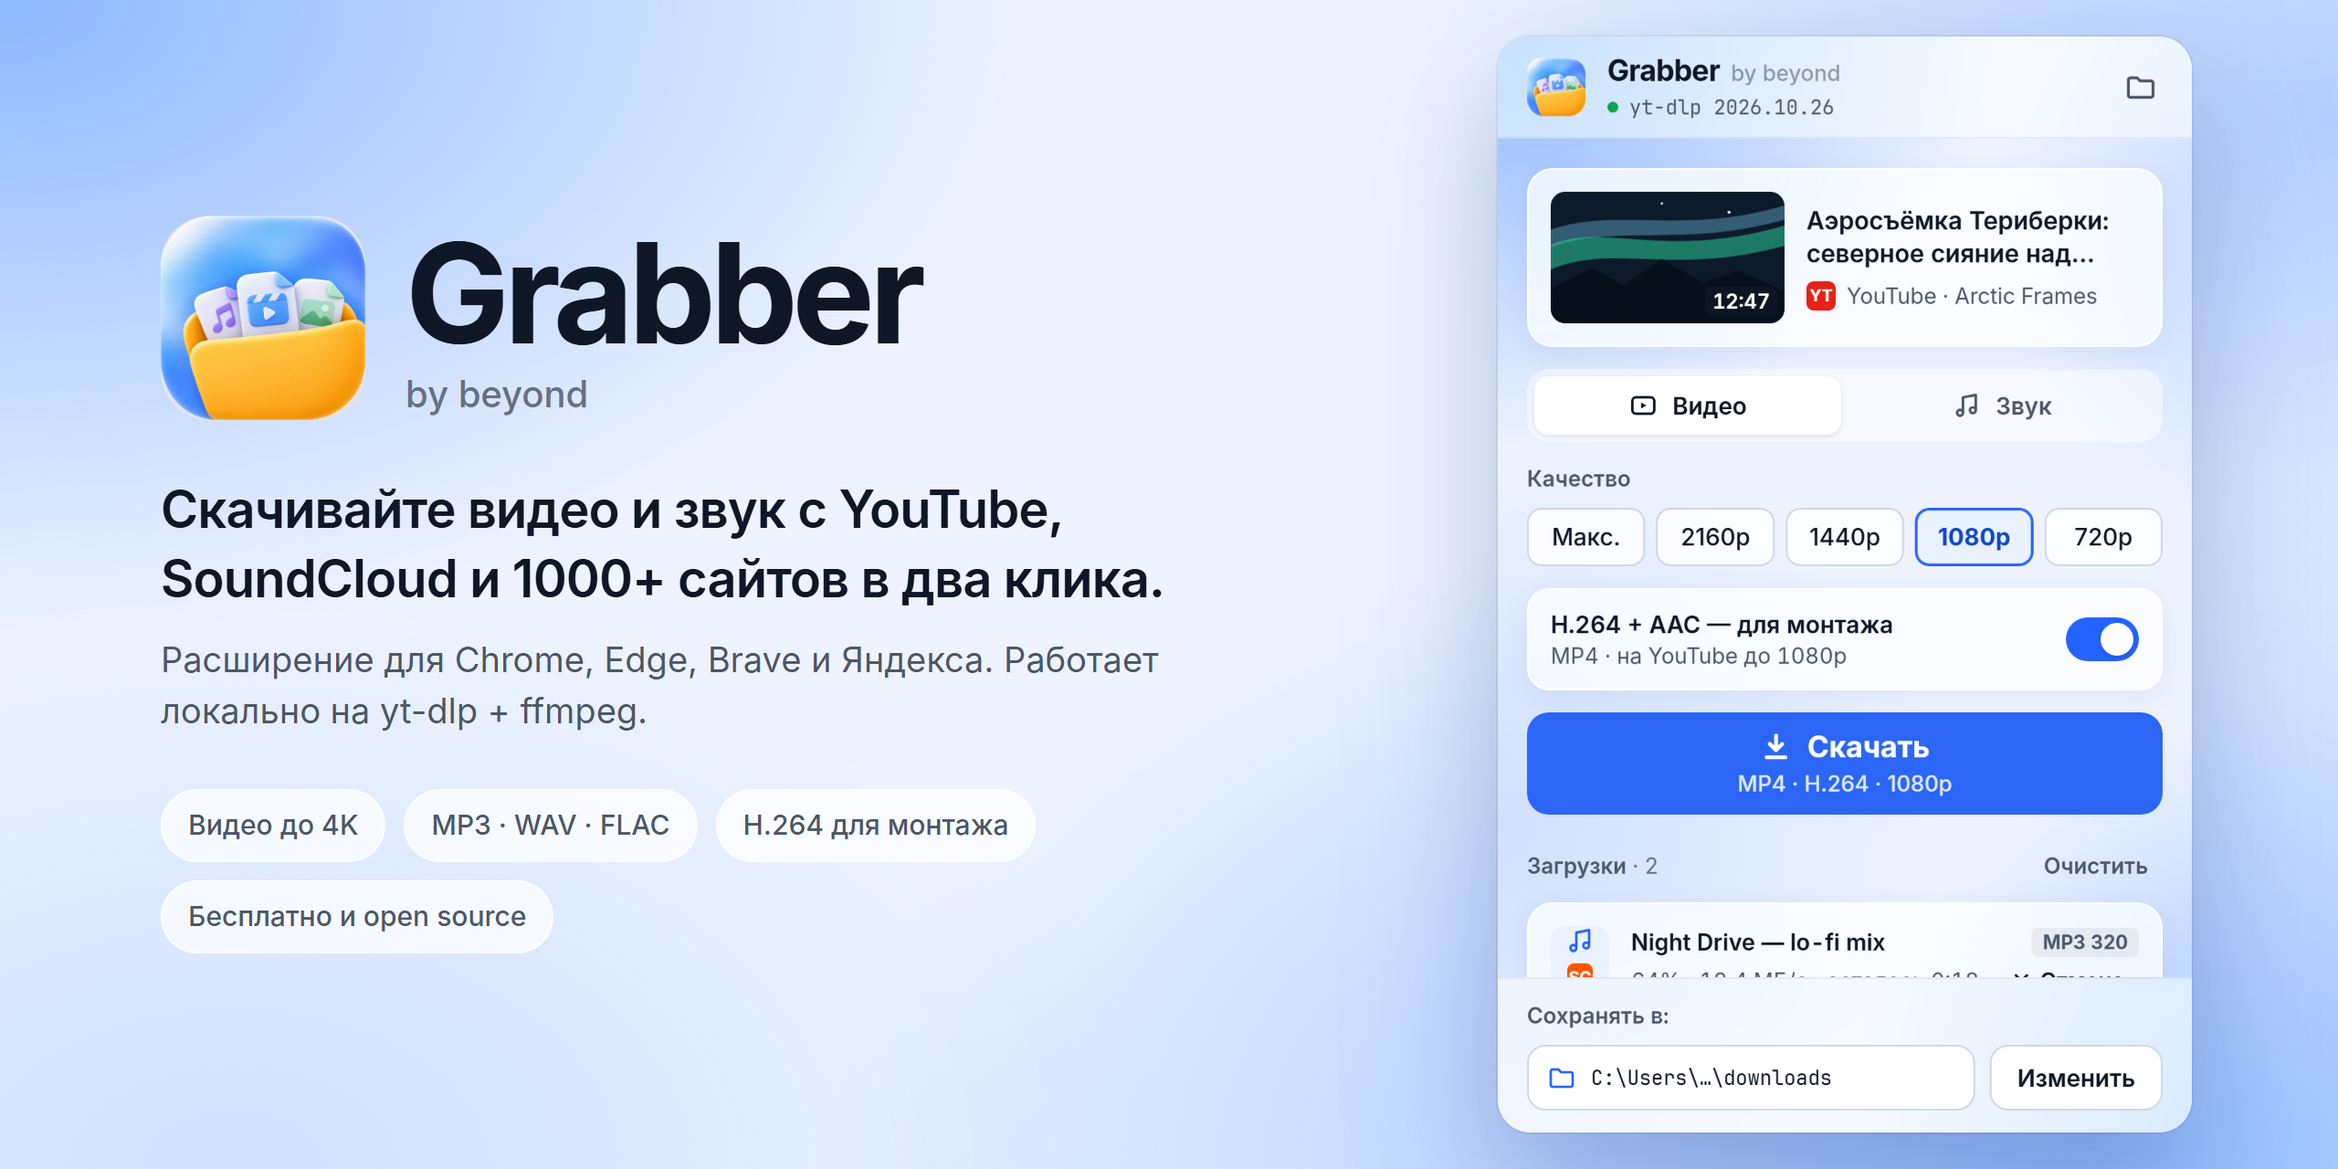
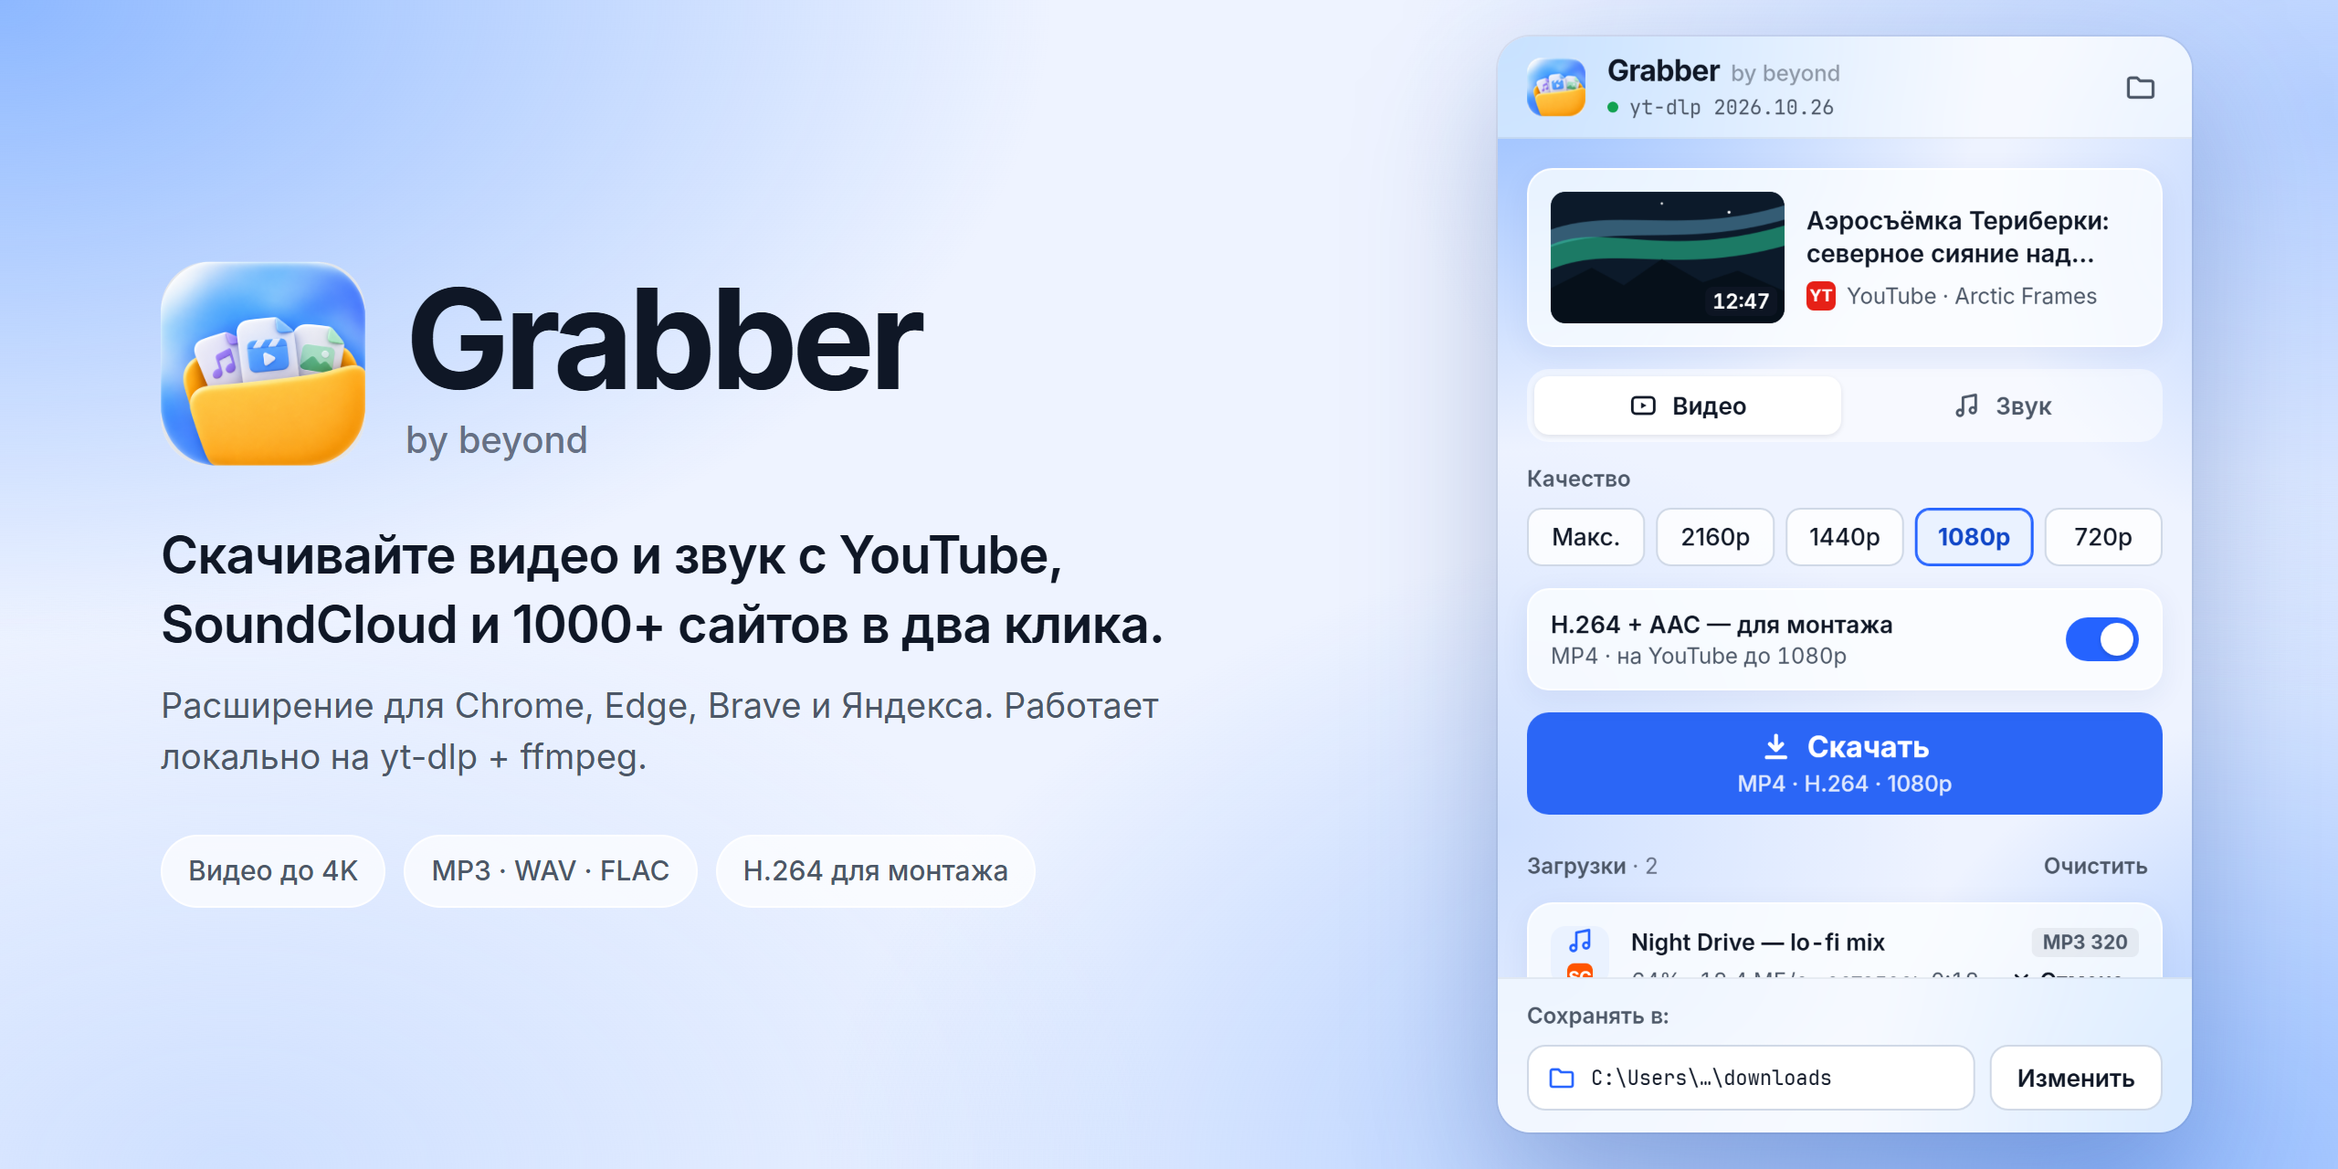
README: компактнее, с эмодзи; обложка без плашки «open source»

diff --git a/src/readme/banner.html b/src/readme/banner.html
@@ -42,7 +42,7 @@
     <p class="sub" data-t="sub"></p>
     <div class="tags">
       <span class="tag" data-t="t1"></span><span class="tag">MP3 · WAV · FLAC</span>
-      <span class="tag" data-t="t2"></span><span class="tag" data-t="t3"></span>
+      <span class="tag" data-t="t2"></span>
     </div>
   </div>
   <div class="shot"><img id="shot" alt=""></div>
@@ -52,10 +52,10 @@ const LANG = new URLSearchParams(location.search).get('lang') === 'ru' ? 'ru' : 
 const T = {
   en: { tagline: 'Download video and audio from YouTube, SoundCloud and 1000+ sites in two clicks.',
         sub: 'A browser extension for Chrome, Edge, Brave and Yandex. Runs locally on yt-dlp + ffmpeg.',
-        t1: 'Video up to 4K', t2: 'H.264 for editing', t3: 'Free & open source' },
+        t1: 'Video up to 4K', t2: 'H.264 for editing' },
   ru: { tagline: 'Скачивайте видео и звук с YouTube, SoundCloud и 1000+ сайтов в два клика.',
         sub: 'Расширение для Chrome, Edge, Brave и Яндекса. Работает локально на yt-dlp + ffmpeg.',
-        t1: 'Видео до 4K', t2: 'H.264 для монтажа', t3: 'Бесплатно и open source' },
+        t1: 'Видео до 4K', t2: 'H.264 для монтажа' },
 }[LANG];
 document.documentElement.lang = LANG;
 document.querySelectorAll('[data-t]').forEach((el) => { el.textContent = T[el.dataset.t]; });

diff --git a/README.md b/README.md
@@ -2,79 +2,64 @@
 
 # Grabber
 
-Расширение для браузера, которое скачивает видео и звук с YouTube, SoundCloud, VK, TikTok, Twitch, Vimeo и [ещё 1000+ сайтов](https://github.com/yt-dlp/yt-dlp/blob/master/supportedsites.md) в два клика. Открыли страницу, нажали значок, выбрали качество — готово.
+Скачивает видео и звук с YouTube, SoundCloud, VK, TikTok, Twitch и [ещё 1000+ сайтов](https://github.com/yt-dlp/yt-dlp/blob/master/supportedsites.md) в два клика: открыли страницу → нажали значок → выбрали качество.
 
-- **Видео до 4K** или **MP4 в H.264 + AAC**, который открывается в любом плеере и монтажке
-- **Звук**: MP3 320, M4A, WAV, FLAC, Opus — с обложкой и тегами
-- Правый клик по любой ссылке → **Скачать через Grabber**
-- Выбор папки, прогресс, отмена и повтор загрузки
-- **Всё работает на вашем компьютере.** Без серверов посередине, аккаунтов, рекламы и слежки
-- Загрузчик ([yt-dlp](https://github.com/yt-dlp/yt-dlp)) обновляется сам, поэтому сайты продолжают качаться
+## ✨ Что умеет
 
-Работает на **Windows 10/11** в **Chrome, Edge, Brave и Яндекс.Браузере**.
+- 🎬 Видео до **4K** или **MP4 (H.264 + AAC)** — открывается в любом плеере и монтажке
+- 🎵 Звук: **MP3 320, M4A, WAV, FLAC, Opus** — с обложкой и тегами
+- 🖱 Правый клик по ссылке → **Скачать через Grabber**
+- 🔒 Всё работает на вашем компьютере: без серверов, аккаунтов и рекламы
+- 🔄 Загрузчик обновляется сам — сайты продолжают качаться
 
-## Установка
+💻 **Windows 10/11** · Chrome, Edge, Brave, Яндекс.Браузер
 
-1. Скачайте **`Grabber-Setup.exe`** со страницы [Releases](https://github.com/stylist111/grabber/releases/latest) и запустите.
-   Windows может показать синее окно *«Система Windows защитила ваш компьютер»* — у установщика нет платной цифровой подписи. Нажмите **Подробнее → Выполнить в любом случае**.
-2. Откройте меню браузера **⋮ → Расширения → Управление расширениями**, включите **Режим разработчика**, нажмите **Загрузить распакованное расширение**, вставьте путь **Ctrl+V** (установщик уже скопировал его) и нажмите **Выбор папки**.
-3. Перезапустите браузер и закрепите значок Grabber (значок пазла → булавка).
+## 📥 Установка
 
-Инструкция в картинках: [установка](docs/guide/ru/Grabber%20—%201.%20Установка.png) · [как скачать](docs/guide/ru/Grabber%20—%202.%20Как%20скачать.png)
+1. Скачайте **`Grabber-Setup.exe`** из [Releases](https://github.com/stylist111/grabber/releases/latest) и запустите.
+   Если Windows покажет синее окно — **Подробнее → Выполнить в любом случае**.
+2. В браузере: **⋮ → Расширения → Управление расширениями** → включите **Режим разработчика** →
+   **Загрузить распакованное расширение** → **Ctrl+V** (путь уже скопирован) → **Выбор папки**.
+3. Перезапустите браузер и закрепите значок Grabber (пазл → булавка).
 
-> **Почему через «Режим разработчика», а не из Chrome Web Store?** Магазин не пропускает расширения, которые скачивают с YouTube. Загрузка распакованного расширения — штатная функция Chrome, и загружается ровно тот код, что лежит в этом репозитории.
+📖 В картинках: [установка](docs/guide/ru/Grabber%20—%201.%20Установка.png) · [как скачать](docs/guide/ru/Grabber%20—%202.%20Как%20скачать.png)
 
-## Как это устроено
+> 💡 **Почему не из Chrome Web Store?** Магазин не пропускает расширения, которые скачивают с YouTube. Режим разработчика — обычная функция браузера, и загружается ровно тот код, что лежит здесь.
+
+## ⚙ Как устроено
 
 ```
-расширение (окно, кнопки)  ──native messaging──▶  grabber_host.exe  ──▶  yt-dlp + ffmpeg  ──▶  ваша папка
+расширение  ──▶  grabber_host.exe  ──▶  yt-dlp + ffmpeg  ──▶  ваша папка
 ```
 
-Само по себе расширение скачивать с YouTube не умеет, поэтому у Grabber две части:
+- **`extension/`** — само расширение: окно, загрузки, настройки.
+- **`src/host.py`** — маленький помощник на компьютере. Браузер запускает его сам, а он вызывает [yt-dlp](https://github.com/yt-dlp/yt-dlp) и [ffmpeg](https://ffmpeg.org).
 
-- **`extension/`** — расширение Chrome (Manifest V3): окно, список загрузок, настройки.
-- **`src/host.py`** — небольшой локальный помощник, собранный в `grabber_host.exe`. Браузер запускает его через [native messaging](https://developer.chrome.com/docs/extensions/develop/concepts/native-messaging), а он вызывает официальные сборки [yt-dlp](https://github.com/yt-dlp/yt-dlp) и [ffmpeg](https://ffmpeg.org). Общаться с ним может только расширение с ID этого проекта.
+Установщик скачивает нужные программы с их официальных страниц, дальше yt-dlp обновляется сам.
 
-Установщик скачивает yt-dlp, ffmpeg и [deno](https://deno.com) (нужен для YouTube) с их официальных страниц на GitHub. Дальше yt-dlp обновляется сам при каждом запуске браузера и раз в 3 часа.
+## 🛡 Безопасность
 
-## Безопасность
-
-- **Сборки делаются из этого репозитория.** Каждый релиз собирает [GitHub Actions](.github/workflows/release.yml) из исходников с тегом, с контрольной суммой SHA-256 и подписанным [подтверждением происхождения сборки](https://docs.github.com/ru/actions/security-for-github-actions/using-artifact-attestations). Проверить, что ваш `Grabber-Setup.exe` настоящий:
+- Каждый релиз собирается [здесь же на GitHub](.github/workflows/release.yml) из открытого кода — с контрольной суммой и [подтверждением происхождения](https://docs.github.com/ru/actions/security-for-github-actions/using-artifact-attestations). Проверить файл:
   ```powershell
   gh attestation verify Grabber-Setup.exe --repo stylist111/grabber
-  Get-FileHash Grabber-Setup.exe   # сравните с SHA256SUMS.txt в релизе
   ```
-- **Скачивайте только со страницы [Releases](https://github.com/stylist111/grabber/releases)** этого репозитория. Копии из других мест могут быть изменены.
-- Помощник принимает только обычные ссылки `http(s)` и передаёт их в yt-dlp как данные (никогда как параметры), не открывает сетевых портов и ничего не хранит, кроме локального лога.
-- Нашли уязвимость? См. [SECURITY.md](SECURITY.md).
+- Скачивайте **только из [Releases](https://github.com/stylist111/grabber/releases)** этого репозитория.
+- Помощник не открывает сетевых портов и ничего не хранит, кроме локального лога.
+- Нашли уязвимость? → [SECURITY.md](SECURITY.md)
 
-## Сборка из исходников
+## 🛠 Сборка
 
-Нужно: Windows, Python 3.11+, Node.js (для картинок инструкции), Google Chrome, [Inno Setup 6](https://jrsoftware.org/isinfo.php).
+Нужно: Windows, Python 3.11+, Node.js, Google Chrome, [Inno Setup 6](https://jrsoftware.org/isinfo.php).
 
 ```powershell
 python -m pip install pyinstaller pillow numpy
-powershell -ExecutionPolicy Bypass -File src\build.ps1              # → dist\Grabber-Setup.exe
-powershell -ExecutionPolicy Bypass -File src\build.ps1 -SkipRender  # не перерисовывать картинки в docs\
+powershell -ExecutionPolicy Bypass -File src\build.ps1   # → dist\Grabber-Setup.exe
 ```
 
-| Путь | Что внутри |
-|---|---|
-| `extension/` | расширение (окно в `popup/`, тексты интерфейса в `i18n.js`) |
-| `src/host.py` | помощник: установка, регистрация в браузерах, загрузки, автообновление yt-dlp |
-| `src/setup.iss` | установщик Inno Setup |
-| `src/guide.html` | страница с инструкцией, которую открывает установщик |
-| `src/readme/` | исходники картинок инструкции и обложек из `docs/` |
-| `.github/workflows/release.yml` | сборка релизов |
+## 🙏 Благодарности
 
-## Правовое
+<a href="https://github.com/yt-dlp/yt-dlp"><img src="docs/yt-dlp.svg" alt="yt-dlp" height="60"></a>
 
-Grabber — это инструмент. Скачивайте только то, на что у вас есть право, и соблюдайте правила сайтов и авторские права. Авторы не несут ответственности за использование.
+## 📄 Лицензия
 
-## Благодарности
-
-[yt-dlp](https://github.com/yt-dlp/yt-dlp) (Unlicense) · [FFmpeg](https://ffmpeg.org) (GPL, скачивается при установке, не входит в сборку) · [Deno](https://deno.com) (MIT) · шрифты [Inter](https://rsms.me/inter/) и [JetBrains Mono](https://www.jetbrains.com/lp/mono/) (SIL OFL 1.1)
-
-## Лицензия
-
-[MIT](LICENSE) © beyond
+MIT
